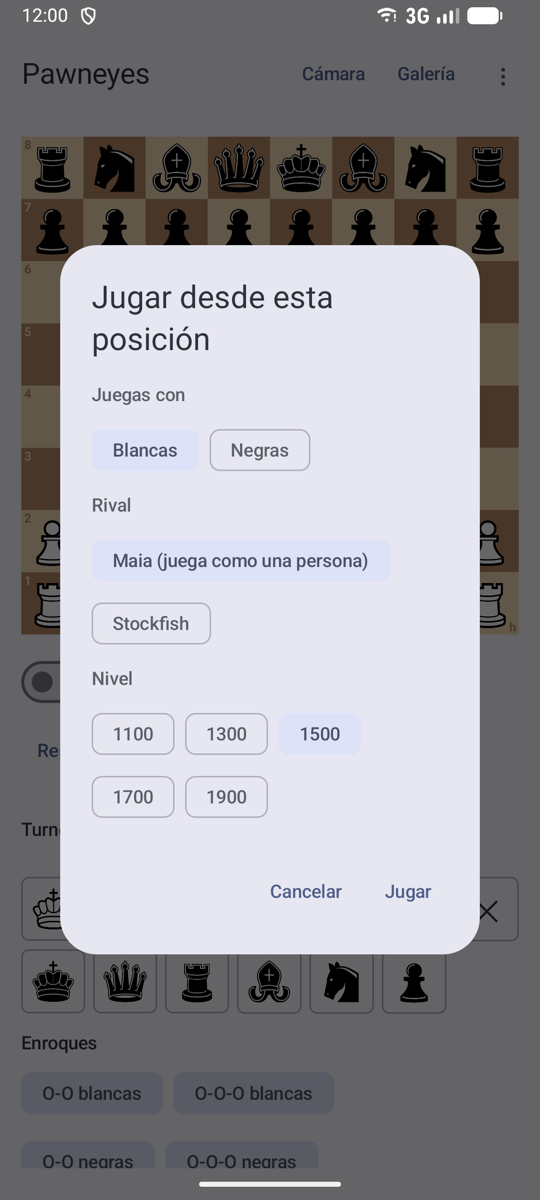
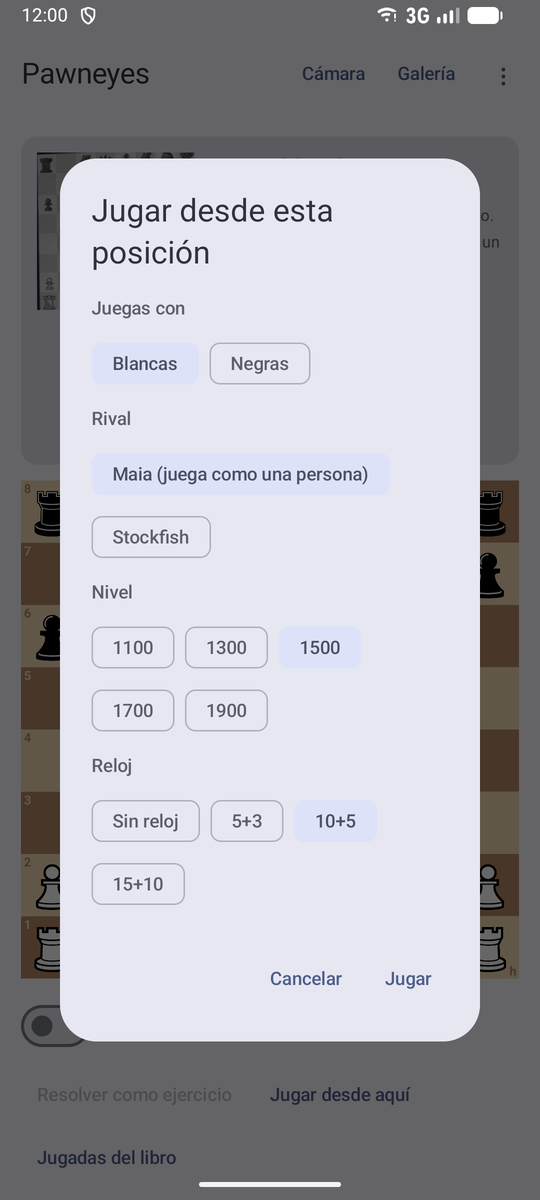
README y página: capturas de la v0.8.1
Escaneo y análisis y recorrer una línea con la barra de evaluación, elegir
rival con reloj, partida con reloj y una nueva del historial con escaneos
etiquetados y una partida guardada. Hechas con la v0.8.1 publicada y las
imágenes públicas de prueba.

diff --git a/docs/index.html b/docs/index.html
@@ -305,17 +305,18 @@
   <section aria-labelledby="capturas">
     <div class="wrap">
       <h2 id="capturas">Así se ve</h2>
-      <p class="lead">El escáner, el análisis, las casillas dudosas, los ejercicios, las partidas, las jugadas del libro y los ajustes.</p>
+      <p class="lead">El escáner, el análisis, las casillas dudosas, los ejercicios, las partidas, las jugadas del libro, los ajustes y el historial.</p>
       <div class="gallery">
-        <figure><div class="phone"><img src="screenshots/01-escaneo-y-analisis.png" alt="Diagrama escaneado y analizado" width="540" height="1200"></div><figcaption>Escaneo y análisis</figcaption></figure>
+        <figure><div class="phone"><img src="screenshots/01-escaneo-y-analisis.png" alt="Diagrama escaneado y analizado, con la barra de evaluación" width="540" height="1200"></div><figcaption>Escaneo y análisis</figcaption></figure>
         <figure><div class="phone"><img src="screenshots/02-explorar-linea.png" alt="Recorriendo una línea de Stockfish" width="540" height="1200"></div><figcaption>Recorrer las líneas</figcaption></figure>
         <figure><div class="phone"><img src="screenshots/03-casilla-dudosa.png" alt="Corregir una casilla dudosa con las opciones del escáner" width="540" height="1200"></div><figcaption>Casillas dudosas</figcaption></figure>
         <figure><div class="phone"><img src="screenshots/04-ejercicio.png" alt="Modo ejercicio: jugada correcta" width="540" height="1200"></div><figcaption>Modo ejercicio</figcaption></figure>
-        <figure><div class="phone"><img src="screenshots/05-jugar-eleccion.png" alt="Elegir bando y rival para jugar" width="540" height="1200"></div><figcaption>Elegir rival</figcaption></figure>
-        <figure><div class="phone"><img src="screenshots/06-partida.png" alt="Partida contra Maia" width="540" height="1200"></div><figcaption>Partida contra Maia</figcaption></figure>
+        <figure><div class="phone"><img src="screenshots/05-jugar-eleccion.png" alt="Elegir bando, rival y reloj para jugar" width="540" height="1200"></div><figcaption>Elegir rival y reloj</figcaption></figure>
+        <figure><div class="phone"><img src="screenshots/06-partida.png" alt="Partida contra Maia con reloj" width="540" height="1200"></div><figcaption>Partida con reloj</figcaption></figure>
         <figure><div class="phone"><img src="screenshots/07-varios-diagramas.png" alt="Elegir entre los diagramas de una página" width="540" height="1200"></div><figcaption>Varios diagramas</figcaption></figure>
         <figure><div class="phone"><img src="screenshots/08-jugadas-del-libro.png" alt="Jugadas del libro en notación descriptiva" width="540" height="1200"></div><figcaption>Jugadas del libro</figcaption></figure>
         <figure><div class="phone"><img src="screenshots/09-ajustes.png" alt="Ajustes: colores, piezas y notación" width="540" height="1200"></div><figcaption>Ajustes</figcaption></figure>
+        <figure><div class="phone"><img src="screenshots/10-historial.png" alt="Historial con escaneos etiquetados y una partida guardada" width="540" height="1200"></div><figcaption>Historial</figcaption></figure>
       </div>
     </div>
   </section>

diff --git a/README.md b/README.md
@@ -27,7 +27,7 @@
 > completas y fiables.
 
 <p align="center">
-  <img src="docs/screenshots/01-escaneo-y-analisis.png" alt="Diagrama escaneado y analizado" width="260">
+  <img src="docs/screenshots/01-escaneo-y-analisis.png" alt="Diagrama escaneado y analizado, con la barra de evaluación" width="260">
   &nbsp;
   <img src="docs/screenshots/02-explorar-linea.png" alt="Recorriendo una línea de Stockfish" width="260">
   &nbsp;
@@ -36,9 +36,9 @@
 <p align="center">
   <img src="docs/screenshots/04-ejercicio.png" alt="Modo ejercicio: jugada correcta" width="260">
   &nbsp;
-  <img src="docs/screenshots/05-jugar-eleccion.png" alt="Elegir bando y rival para jugar" width="260">
+  <img src="docs/screenshots/05-jugar-eleccion.png" alt="Elegir bando, rival y reloj para jugar" width="260">
   &nbsp;
-  <img src="docs/screenshots/06-partida.png" alt="Partida contra Maia" width="260">
+  <img src="docs/screenshots/06-partida.png" alt="Partida contra Maia con reloj" width="260">
 </p>
 <p align="center">
   <img src="docs/screenshots/07-varios-diagramas.png" alt="Elegir entre los diagramas de una página" width="260">
@@ -46,6 +46,9 @@
   <img src="docs/screenshots/08-jugadas-del-libro.png" alt="Jugadas del libro en notación descriptiva" width="260">
   &nbsp;
   <img src="docs/screenshots/09-ajustes.png" alt="Ajustes: colores, piezas y notación" width="260">
+</p>
+<p align="center">
+  <img src="docs/screenshots/10-historial.png" alt="Historial con escaneos etiquetados y una partida guardada" width="260">
 </p>
 
 ## Qué hace
